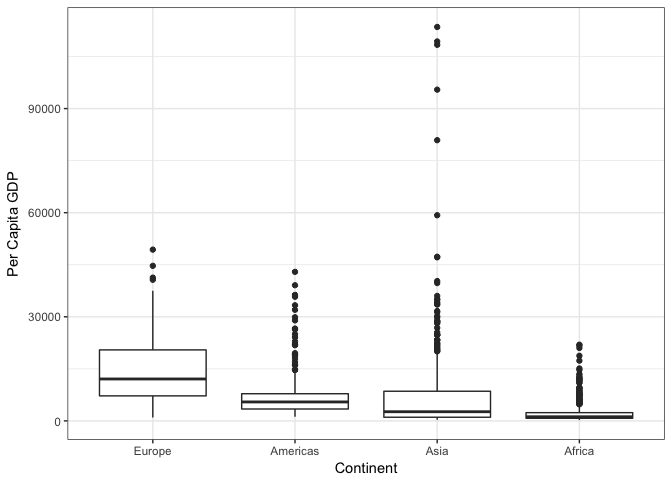
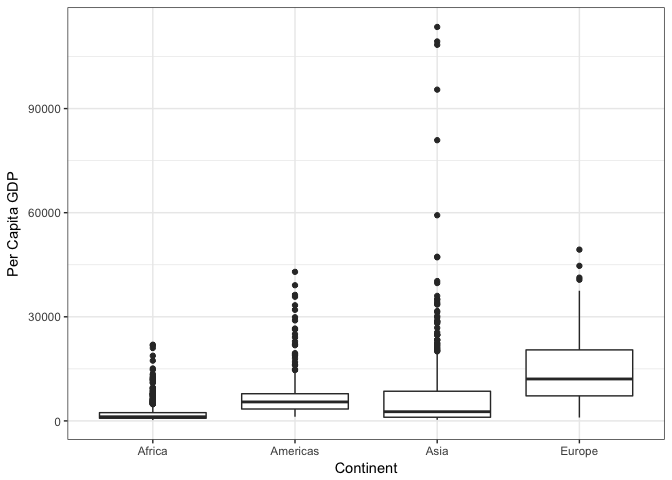
Final commit

diff --git a/hw05-Factors/Factor_figure_management.md b/hw05-Factors/Factor_figure_management.md
@@ -34,7 +34,7 @@ levels(gapminder$continent)
 
     ## [1] "Africa"   "Americas" "Asia"     "Europe"   "Oceania"
 
-It has 5 levels for each continent.
+It has 5 levels.
 
 I'd like to **Drop Oceania** from the data frame and ensure that factor level is removed as well.
 
@@ -64,12 +64,12 @@ There are still 5 factor levels even though Oceania has been removed.
 ``` r
  gapminder.no$continent <-  gapminder.no$continent %>% 
                               fct_drop()
-levels(gapminder.no$continent) # Now how many factor levels?
+levels(gapminder.no$continent)
 ```
 
     ## [1] "Africa"   "Americas" "Asia"     "Europe"
 
-Now there are the correct number of factor levels.
+Now there are the correct factor levels.
 
 I will now **reorder the levels of continent** based on the median per capita GDP within each country, in descending order.
 
@@ -80,7 +80,7 @@ levels(gapminder.no$continent)
 
     ## [1] "Europe"   "Americas" "Asia"     "Africa"
 
-This reorded the factor levels, but let's see if the order of the data has changed:
+This reorded the factor levels as I wanted, but let's see if the order of the data has changed:
 
 ``` r
 head(gapminder) # orginal data
@@ -138,15 +138,18 @@ tail(gapminder.no) # reordered factor data
     ## 5 Zimbabwe    Africa  2002  39.989 11926563  672.0386
     ## 6 Zimbabwe    Africa  2007  43.487 12311143  469.7093
 
-Nope! Both the orginal dataframe and the dataframe with the reorded factor levels start with Asian and end with Africa.
+Nope. Both the orginal dataframe and the dataframe with the reorded factor levels are in the same order.
 
 How does this differ from **arrange**?
 
 ``` r
-gapminder.noa <- gapminder.no %>%
-                    group_by(continent) %>%
-                      mutate(med.gdp = median(gdpPercap)) %>%
-                       arrange(desc(med.gdp))
+gapminder.noa <- gapminder %>%
+                    filter(continent!= "Oceania") %>%
+                      group_by(continent) %>%
+                        mutate(med.gdp = median(gdpPercap)) %>%
+                         arrange(desc(med.gdp)) 
+
+gapminder.noa$continent <- fct_drop(gapminder.noa$continent)
 
 head(gapminder.noa)
 ```
@@ -163,27 +166,12 @@ head(gapminder.noa)
     ## 6 Albania    Europe  1977   68.93 2509048  3533.004 12081.75
 
 ``` r
-tail(gapminder.noa)
-```
-
-    ## # A tibble: 6 x 7
-    ## # Groups:   continent [1]
-    ##    country continent  year lifeExp      pop gdpPercap  med.gdp
-    ##     <fctr>    <fctr> <int>   <dbl>    <int>     <dbl>    <dbl>
-    ## 1 Zimbabwe    Africa  1982  60.363  7636524  788.8550 1192.138
-    ## 2 Zimbabwe    Africa  1987  62.351  9216418  706.1573 1192.138
-    ## 3 Zimbabwe    Africa  1992  60.377 10704340  693.4208 1192.138
-    ## 4 Zimbabwe    Africa  1997  46.809 11404948  792.4500 1192.138
-    ## 5 Zimbabwe    Africa  2002  39.989 11926563  672.0386 1192.138
-    ## 6 Zimbabwe    Africa  2007  43.487 12311143  469.7093 1192.138
-
-``` r
 levels(gapminder.noa$continent)
 ```
 
-    ## [1] "Europe"   "Americas" "Asia"     "Africa"
+    ## [1] "Africa"   "Americas" "Asia"     "Europe"
 
-With arrange the order of the data changes, and the continents are listed in the same order as the factor levels with fct\_reorder() (starts with Europe ends with Africa), but the order of the factor levels do not change.
+With arrange the order of the data changes so it is now in the same order as the factor levels with fct\_reorder() (starts with Europe), but the order of the factor levels do not change.
 
 Let's see whether the order of the data or the order of the factors dictate how this data is plotted.
 
@@ -193,7 +181,9 @@ ggplot(gapminder.noa, aes(x=continent, y=gdpPercap)) +
         theme_bw() + xlab("Continent") + ylab("Per Capita GDP")
 ```
 
-![](Factor_figure_management_files/figure-markdown_github-ascii_identifiers/unnamed-chunk-9-1.png) Looks like it's the order of the factor levels that dictate plotting order. So if I wanted the same plot but in order of decreasing median GDP, I could use the dataframe I applied fct\_reorder to.
+![](Factor_figure_management_files/figure-markdown_github-ascii_identifiers/unnamed-chunk-9-1.png)
+
+Looks like it's the order of the factor levels that dictate plotting order. So if I wanted the same plot but in order of decreasing median GDP, I could use the dataframe I applied fct\_reorder to.
 
 ``` r
 ggplot(gapminder.no, aes(x=continent, y=gdpPercap)) + 
@@ -208,7 +198,7 @@ Nice! :star:
 File I/O
 --------
 
-I'll go back to using the original gapminder data and fiddle with factor levels so they start with Asia, then Europe and after that I don't care about the order.
+I'll go back to using the original gapminder data and fiddle with factor levels so they start with Asia, then Europe, and after that I don't care about the order.
 
 ``` r
 gapminder$continent<- gapminder$continent %>% fct_relevel("Asia", "Europe")
@@ -252,7 +242,7 @@ tail(gapminder.range)
     ## 5   Oceania  2002   7497.953
     ## 6   Oceania  2007   9250.358
 
-As you can see, the data is order according the factor order for continent that I specified (starts with Asia, ends with Oceania.
+As you can see, the data is ordered according the factor order for continent that I specified (starts with Asia, ends with Oceania.
 
 Now, I'll export this data, but I want to preserve my hard-earned factor order.
 
@@ -266,7 +256,7 @@ getwd() # where is this going to save to?
 saveRDS(gapminder.range, "gapminder.range.rds")
 ```
 
-The .rds file is now in my hw05-Factors folder. Now I'll read it back in, I'm going to call it something different so that I can compare the original dataframe and the outputed/inputed one.
+The .rds file is now in my hw05-Factors folder. Now I'll read it back in but I'm going to call it something different so that I can compare the original dataframe and the outputed/inputed one.
 
 ``` r
 gapminder.range.in <- readRDS("gapminder.range.rds")
@@ -286,7 +276,43 @@ levels(gapminder.range.in$continent)
 
     ## [1] "Asia"     "Europe"   "Africa"   "Americas" "Oceania"
 
-Yup!
+Yup! :punch:
 
 Visualization design
 --------------------
+
+In Homework 2 I made a plot I'm not that proud of:
+
+``` r
+filter(gapminder, continent=="Americas") %>% 
+  select(country, gdpPercap, year) %>%
+  ggplot(aes(x=year, y=gdpPercap)) + geom_point(aes(colour=country), alpha=0.3) + geom_smooth() + theme_classic()
+```
+
+    ## `geom_smooth()` using method = 'loess'
+
+![](Factor_figure_management_files/figure-markdown_github-ascii_identifiers/unnamed-chunk-16-1.png)
+
+It's really difficult to distinguish between countries with so many colours in the plot. Tamara Munzer mentioned you should use a maximum of ~8 colours per plot so I don't think there is a colour scheme that would make each country easily distinguishable, but maybe I could simplify the plot instead. First, rather than points I'll use lines as the trend is the message I'm trying to get across. Then I'll drop the smoothed mean trend line (stat\_smooth()) to de-clutter. Last, I'll focus on the two outlier countries that have increased in wealth exceptionally quickly by labelling them.
+
+``` r
+p <- gapminder %>% 
+        filter(continent=="Americas") %>%
+            ggplot(aes(x = year, y = gdpPercap)) +
+              geom_line(aes(color=country),lwd=1, show.legend=FALSE) + scale_color_manual(values = country_colors) +
+                theme_bw() + xlab("Year") + ylab("Per Capita GDP")
+    
+p <- p +  geom_text(data=subset(gapminder, country %in% c("Canada","United States") & year==2002), 
+         aes(x=year, y=gdpPercap, label=country), hjust=1.2)
+p            
+```
+
+![](Factor_figure_management_files/figure-markdown_github-ascii_identifiers/unnamed-chunk-17-1.png)
+
+I think this plot is much better. I'll export it. (Note to reviewers: the labels only worked when I used geom\_text in a seperate step, I'd be interested to learn why.)
+
+``` r
+ggsave(p, file="GDP_Americas.png", width=4, height=3, scale=1.5, dpi=300)
+```
+
+Here's the exported file, supersized, high res, and linked back into this document: ![](/Users/katejohnson/Google%20Drive/Classes/STAT%20545.547/STAT545-hw-Johnson-Kate/STAT545-hw-Johnson-Kate_Oct5/hw05-Factors/GDP_Americas.png)
